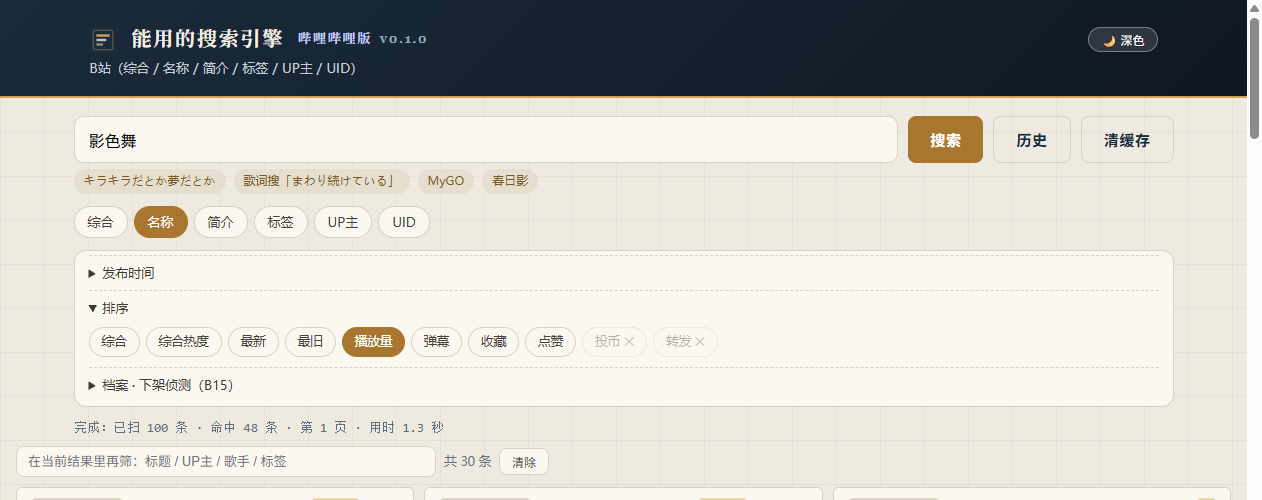
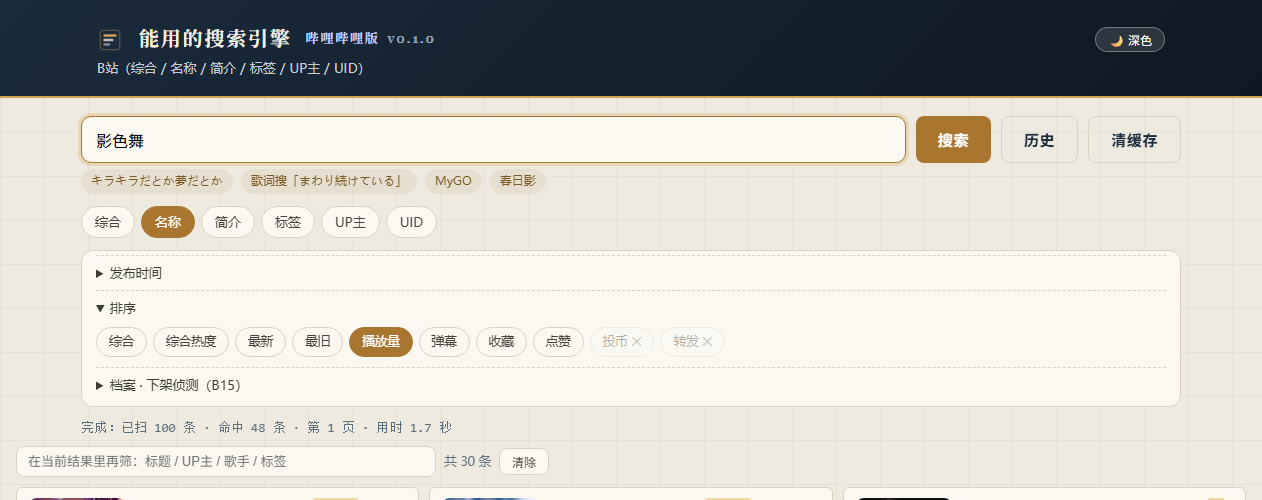
usable-search-engine v0.1.0 (哔哩哔哩版)
自建索引的本地搜索引擎，纯 Python 标准库 + SQLite，零第三方依赖。

- 本仓库为 哔哩哔哩版
- 自己的排序与相关性口径，标签命中可见化
- 时长 / 发行时间 / 发布时间 / 排序 / 匹配标准筛选
- 搜索历史（本机）、结果内二次筛选、深色模式
- 档案与下架复查、接口可用性探针、备份站（默认关闭）
- 许可：MIT

diff --git a/docs/README_BILIBILI.en.md b/docs/README_BILIBILI.en.md
@@ -1,0 +1,51 @@
+# usable-search-engine (Bilibili edition)
+
+[中文](README.md) · English
+
+![Python](https://img.shields.io/badge/Python-3.10%2B-3776AB?logo=python&logoColor=white)
+![dependencies](https://img.shields.io/badge/dependencies-0-brightgreen)
+![license](https://img.shields.io/badge/license-MIT-blue)
+![platform](https://img.shields.io/badge/platform-Windows%20%7C%20macOS%20%7C%20Linux-lightgrey)
+![version](https://img.shields.io/badge/version-v0.1.0-orange)
+
+## Fighting the algorithm
+
+A local, self-indexed search tool for Bilibili. Six search dimensions: everything / title / description / tag / uploader / UID.
+
+Platform search does not fail to *find* things; it ranks them for its own reasons — fresh low-effort re-uploads above older originals, tangentially related videos above the uploader you typed, and description or tags not treated as searchable at all. This project keeps the same public metadata and ranks it **by rules you choose**: relevance, where the keyword hit, play count, publish date.
+
+Runs entirely on your machine, listens on `127.0.0.1:18788`, uploads nothing, needs no account.
+
+## What you get
+
+- **Six dimensions** — everything / title / description / tag / uploader / UID
+- **Filters** — duration (presets or custom minutes), publish date (today … older than a year, or custom range)
+- **Sorting** — relevance, heat, newest, oldest, play count, danmaku, favourites
+- **Match strictness** — standard (title/description/tag) · standard without tags · strict (title only) · loose (platform order)
+- **Hit visibility** — every card says whether it matched on title, description or tag
+- **Local archive** — every video seen is recorded; one click re-checks each one and classifies it as alive / deleted / private / unknown (unknown is never reported as deleted)
+- **Backup-site lookup** — off by default; HEAD requests only, one per second, serial, cached forever on hit
+- **Probe log** — success rate, p50, p95 per endpoint
+
+## Run it
+
+```
+git clone https://github.com/kipp546IO/usable-search-engine-BILI.git
+cd usable-search-engine-BILI
+python -m venv .venv
+.venv\Scripts\activate          # Windows; source .venv/bin/activate on macOS/Linux
+pip install -e .
+python -m usable_search serve
+```
+
+Then open <http://127.0.0.1:18788/>. On Windows you can just double-click `install.cmd`.
+
+Pure Python standard library only — no third-party packages. Data lives in `data/` (gitignored). The service binds to localhost only.
+
+## Known limits
+
+- Uploader *video list* is not implemented: that endpoint is behind Bilibili's risk control and returns errors reliably enough that shipping half of it would be worse than not shipping it.
+- First search per keyword scans several pages and can take a few seconds; repeated queries hit the local cache for 10 minutes.
+- Only public metadata is indexed. No login, no cookies, no video content.
+
+MIT licensed.
